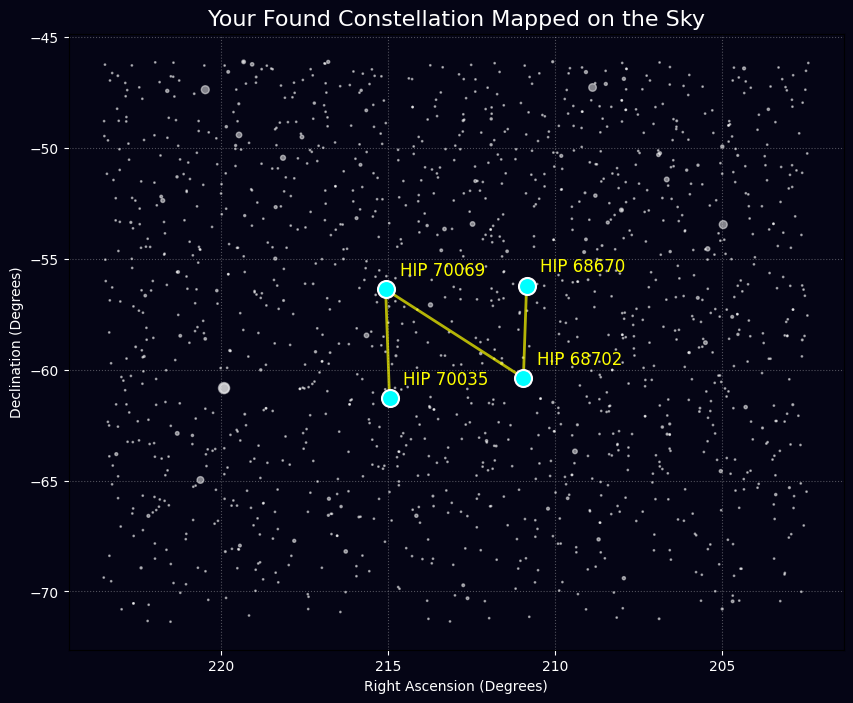
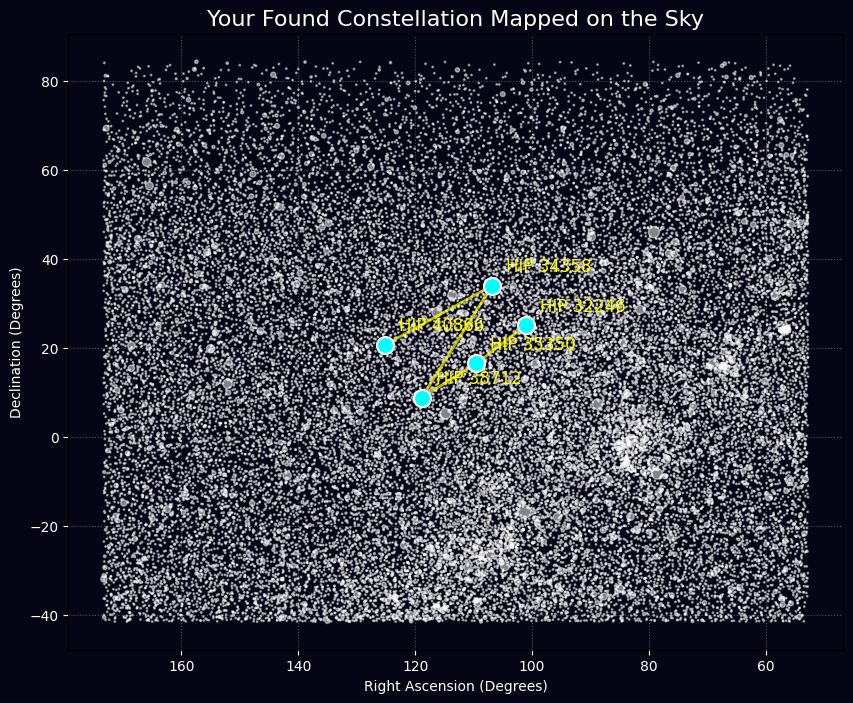
Updated links

diff --git a/constellocate/app/help/page.tsx b/constellocate/app/help/page.tsx
@@ -23,7 +23,7 @@ export default function Home() {
         </div>
         <div className="flex flex-col gap-4 text-base font-medium sm:flex-row">
     
-         <Button text={'Find Your Match'} onClick={() => (window.location.href = '/main')} />
+         <Button text={'Find Your Match'} onClick={() => (window.location.href = '/draw')} />
          <Button text={'Back'} onClick={() => (window.location.href = '/')} />
         </div>
       </main>

diff --git a/constellocate/app/src/components/constellation-viewer.tsx b/constellocate/app/src/components/constellation-viewer.tsx
@@ -163,7 +163,7 @@ export default function Constellation({ stars }: ConstellationProps) {
       <div className="flex flex-col gap-4 text-base font-medium sm:flex-row">
         <Button 
           text={'Draw Again!'} 
-          onClick={() => (window.location.href = '/main')} 
+          onClick={() => (window.location.href = '/draw')} 
         />
       </div>
     </div>

diff --git a/constellocate/app/src/triangles.py b/constellocate/app/src/triangles.py
@@ -111,7 +111,7 @@ def searchTriangles(userVertices, starDb, starTriangleDb, ratioTolerance=0.01, p
             # see how much it takes to transform real points to user points
             userAnchorPoints = np.array([p1, p2, p3])
             tform = SimilarityTransform()
-            tform.estimate(userAnchorPoints, anchorStarsCoords) 
+            tform.from_estimate(userAnchorPoints, anchorStarsCoords) 
 
             #now apply that same transformation to every other drawn point, and see if they map to real stars in the map
             projection = tform(userPoints)
